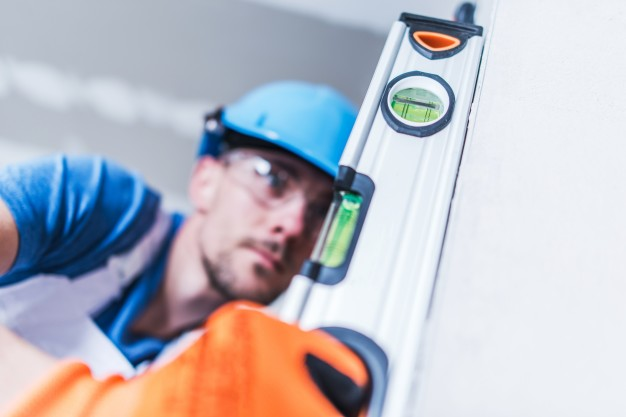
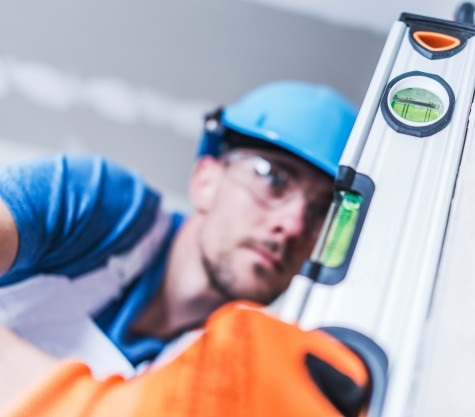
13:54 27-09-2019

diff --git a/index.html b/index.html
@@ -60,8 +60,8 @@
 
             <div class="collapse navbar-collapse" id="navbarNavAltMarkup">
                 <div class="navbar-nav mr-auto ml-auto text-center">
-                    <a class="nav-item nav-link" href="#sobreMi">Sobre Nosotros</a>
-                    <a class="nav-item nav-link" href="#habilidades">Servicios</a>
+                    <a class="nav-item nav-link" href="#sobrenosotros">Sobre Nosotros</a>
+                    <a class="nav-item nav-link" href="#servicio">Servicios</a>
                     <a class="nav-item nav-link" href="#proyectos">Proyectos</a>
                     <a class="nav-item nav-link active" href="#contacto">Contacto</a>
 
@@ -121,14 +121,14 @@
 
 
         <!--sobrenosotros-->
-        <div class=" container pt-5">
+        <div class=" container pt-5" id="sobrenosotros">
 
             <h2 class="m-5">Nosotros</h2>
 
             <div class="card mb-3" style="max-width: 100%;">
                 <div class="row no-gutters">
                     <div class="col-md-5">
-                        <img src="assets/img/pic01.jpg" class="card-img" alt="...">
+                        <img src="assets/img/nosotros.jpg" class="card-img" alt="...">
                     </div>
                     <div class="col-md-7">
                         <div class="card-body nosotros p-5">
@@ -155,7 +155,7 @@
 
 
         <!--servicios-->
-        <div class="container servicios">
+        <div class="container servicios" id="servicio">
 
             <h3 class="mt-5">Servicios</h2>
 
@@ -221,10 +221,10 @@
         <!--servicios-->
 
         <!--proyectos-->
-        <div class="container proyectofondo mt-5">
-            <div class="proyectos p-5">
-
-                <h2 class="mb-5">Proyectos</h2>
+        <div class="container proyectofondo mt-5" id="proyectos">
+            <div class="proyectos">
+                <br>
+                <h2 class="m-5">Proyectos</h2>
 
                 <div id="carouselExampleIndicators" class="carousel slide" data-ride="carousel" data-interval="2500">
                     <ol class="carousel-indicators">
@@ -257,6 +257,7 @@
                 </div>
 
             </div>
+            <br><br>
         </div>
         <!--proyectos-->
 
@@ -269,18 +270,19 @@
 
 
         <!--contacto formulario-->
-        <div class="container mt-5 contactodiv">
+        <div class="container mt-5 contactodiv" id="contacto">
+            <h2 class="m-5">Contacto</h2>
             <div class="row">
-                <div class="col-sm-12 col-md-10 col-lg-10">
+                <div class="col-sm-12 col-md-7 col-lg-7">
                     <div class="well well-sm">
                         <form class="form-horizontal" method="post">
                             <fieldset>
-                                <h2 class="m-5">Contacto</h2>
+
 
                                 <div class="form-group">
                                     <span class="col-md-1 col-md-offset-2 text-center"><i
                                             class="fa fa-user bigicon"></i></span>
-                                    <div class="col-md-8">
+                                    <div class="col-md-12">
                                         <input id="fname" name="name" type="text" placeholder="Nombre"
                                             class="form-control">
                                     </div>
@@ -290,7 +292,7 @@
                                 <div class="form-group">
                                     <span class="col-md-1 col-md-offset-2 text-center"><i
                                             class="fa fa-envelope-o bigicon"></i></span>
-                                    <div class="col-md-8">
+                                    <div class="col-md-12">
                                         <input id="email" name="email" type="text" placeholder="Correo"
                                             class="form-control">
                                     </div>
@@ -299,7 +301,7 @@
                                 <div class="form-group">
                                     <span class="col-md-1 col-md-offset-2 text-center"><i
                                             class="fa fa-phone-square bigicon"></i></span>
-                                    <div class="col-md-8">
+                                    <div class="col-md-12">
                                         <input id="phone" name="phone" type="text" placeholder="Celular"
                                             class="form-control">
                                     </div>
@@ -308,7 +310,7 @@
                                 <div class="form-group">
                                     <span class="col-md-1 col-md-offset-2 text-center"><i
                                             class="fa fa-pencil-square-o bigicon"></i></span>
-                                    <div class="col-md-8">
+                                    <div class="col-md-12">
                                         <textarea class="form-control" id="message" name="message" placeholder=""
                                             rows="7"></textarea>
                                     </div>
@@ -323,18 +325,41 @@
                         </form>
                     </div>
                 </div>
-                <!--contacto inconos -->
-                <div class="col-sm-12 col-md-2 col-lg-2">
+                <!--contacto inconos-->
+                <div class="col-sm-12 col-md-5 col-lg-5">
+                    <div class="mt-5">
+                        <div class="container-fluid row">
 
-                    <div class="container-fluid">
-                        <img src="assets/img/pic01.jpg" width="30" length="30" alt="">
+                            <div class="col-2">
+                                <img src="assets/img/whatsapp.svg" width="40" length="40" alt="">
+                            </div>
+                            <div class="col-10">
+                                <p>+569 77 21 6059</p>
+                                <p>+569 77 21 6059</p>
+                            </div>
+
+                        </div>
+
+                        <div class="container-fluid row mt-5">
+
+                            <div class="col-2">
+                                <img src="assets/img/gmail.svg" width="40" length="40" alt="">
+                            </div>
+                            <div class="col-10">
+                                <p>Danielulloa256@gmail.com</p>
+                                <p>Danielulloa256@gmail.com</p>
+                            </div>
+
+                        </div>
 
                     </div>
 
+
                 </div>
-
-
             </div>
+
+
+        </div>
         </div>
         <!--contacto formulario-->
 
@@ -363,7 +388,7 @@
         <script src="https://stackpath.bootstrapcdn.com/bootstrap/4.3.1/js/bootstrap.min.js"
             integrity="sha384-JjSmVgyd0p3pXB1rRibZUAYoIIy6OrQ6VrjIEaFf/nJGzIxFDsf4x0xIM+B07jRM" crossorigin="anonymous">
         </script>
-        
+
     </body>
 
     </html>

diff --git a/sass/style.scss b/sass/style.scss
@@ -22,21 +22,25 @@ h3 {
 
 .nosotros{
     text-align: justify;
+    img{
+        width: 100%;
+        length: auto;    
+    }
   
 }
 
 .proyectofondo{
         background-color: rgb(49, 49, 49);
+        
         h2 {
             color: antiquewhite;
            
         }
 }
 .proyectos {
-    width: 100%;
-    height: auto;
-    max-width: 500px;
-    max-width: 700px;
+
+    max-width: 600px;
+    max-width: 800px;
     margin: 0px auto;
 }
 

diff --git a/assets/css/style.css b/assets/css/style.css
@@ -19,6 +19,10 @@ h3 {
 .nosotros {
   text-align: justify;
 }
+.nosotros img {
+  width: 100%;
+  length: auto;
+}
 
 .proyectofondo {
   background-color: #313131;
@@ -28,10 +32,8 @@ h3 {
 }
 
 .proyectos {
-  width: 100%;
-  height: auto;
-  max-width: 500px;
-  max-width: 700px;
+  max-width: 600px;
+  max-width: 800px;
   margin: 0px auto;
 }
 
